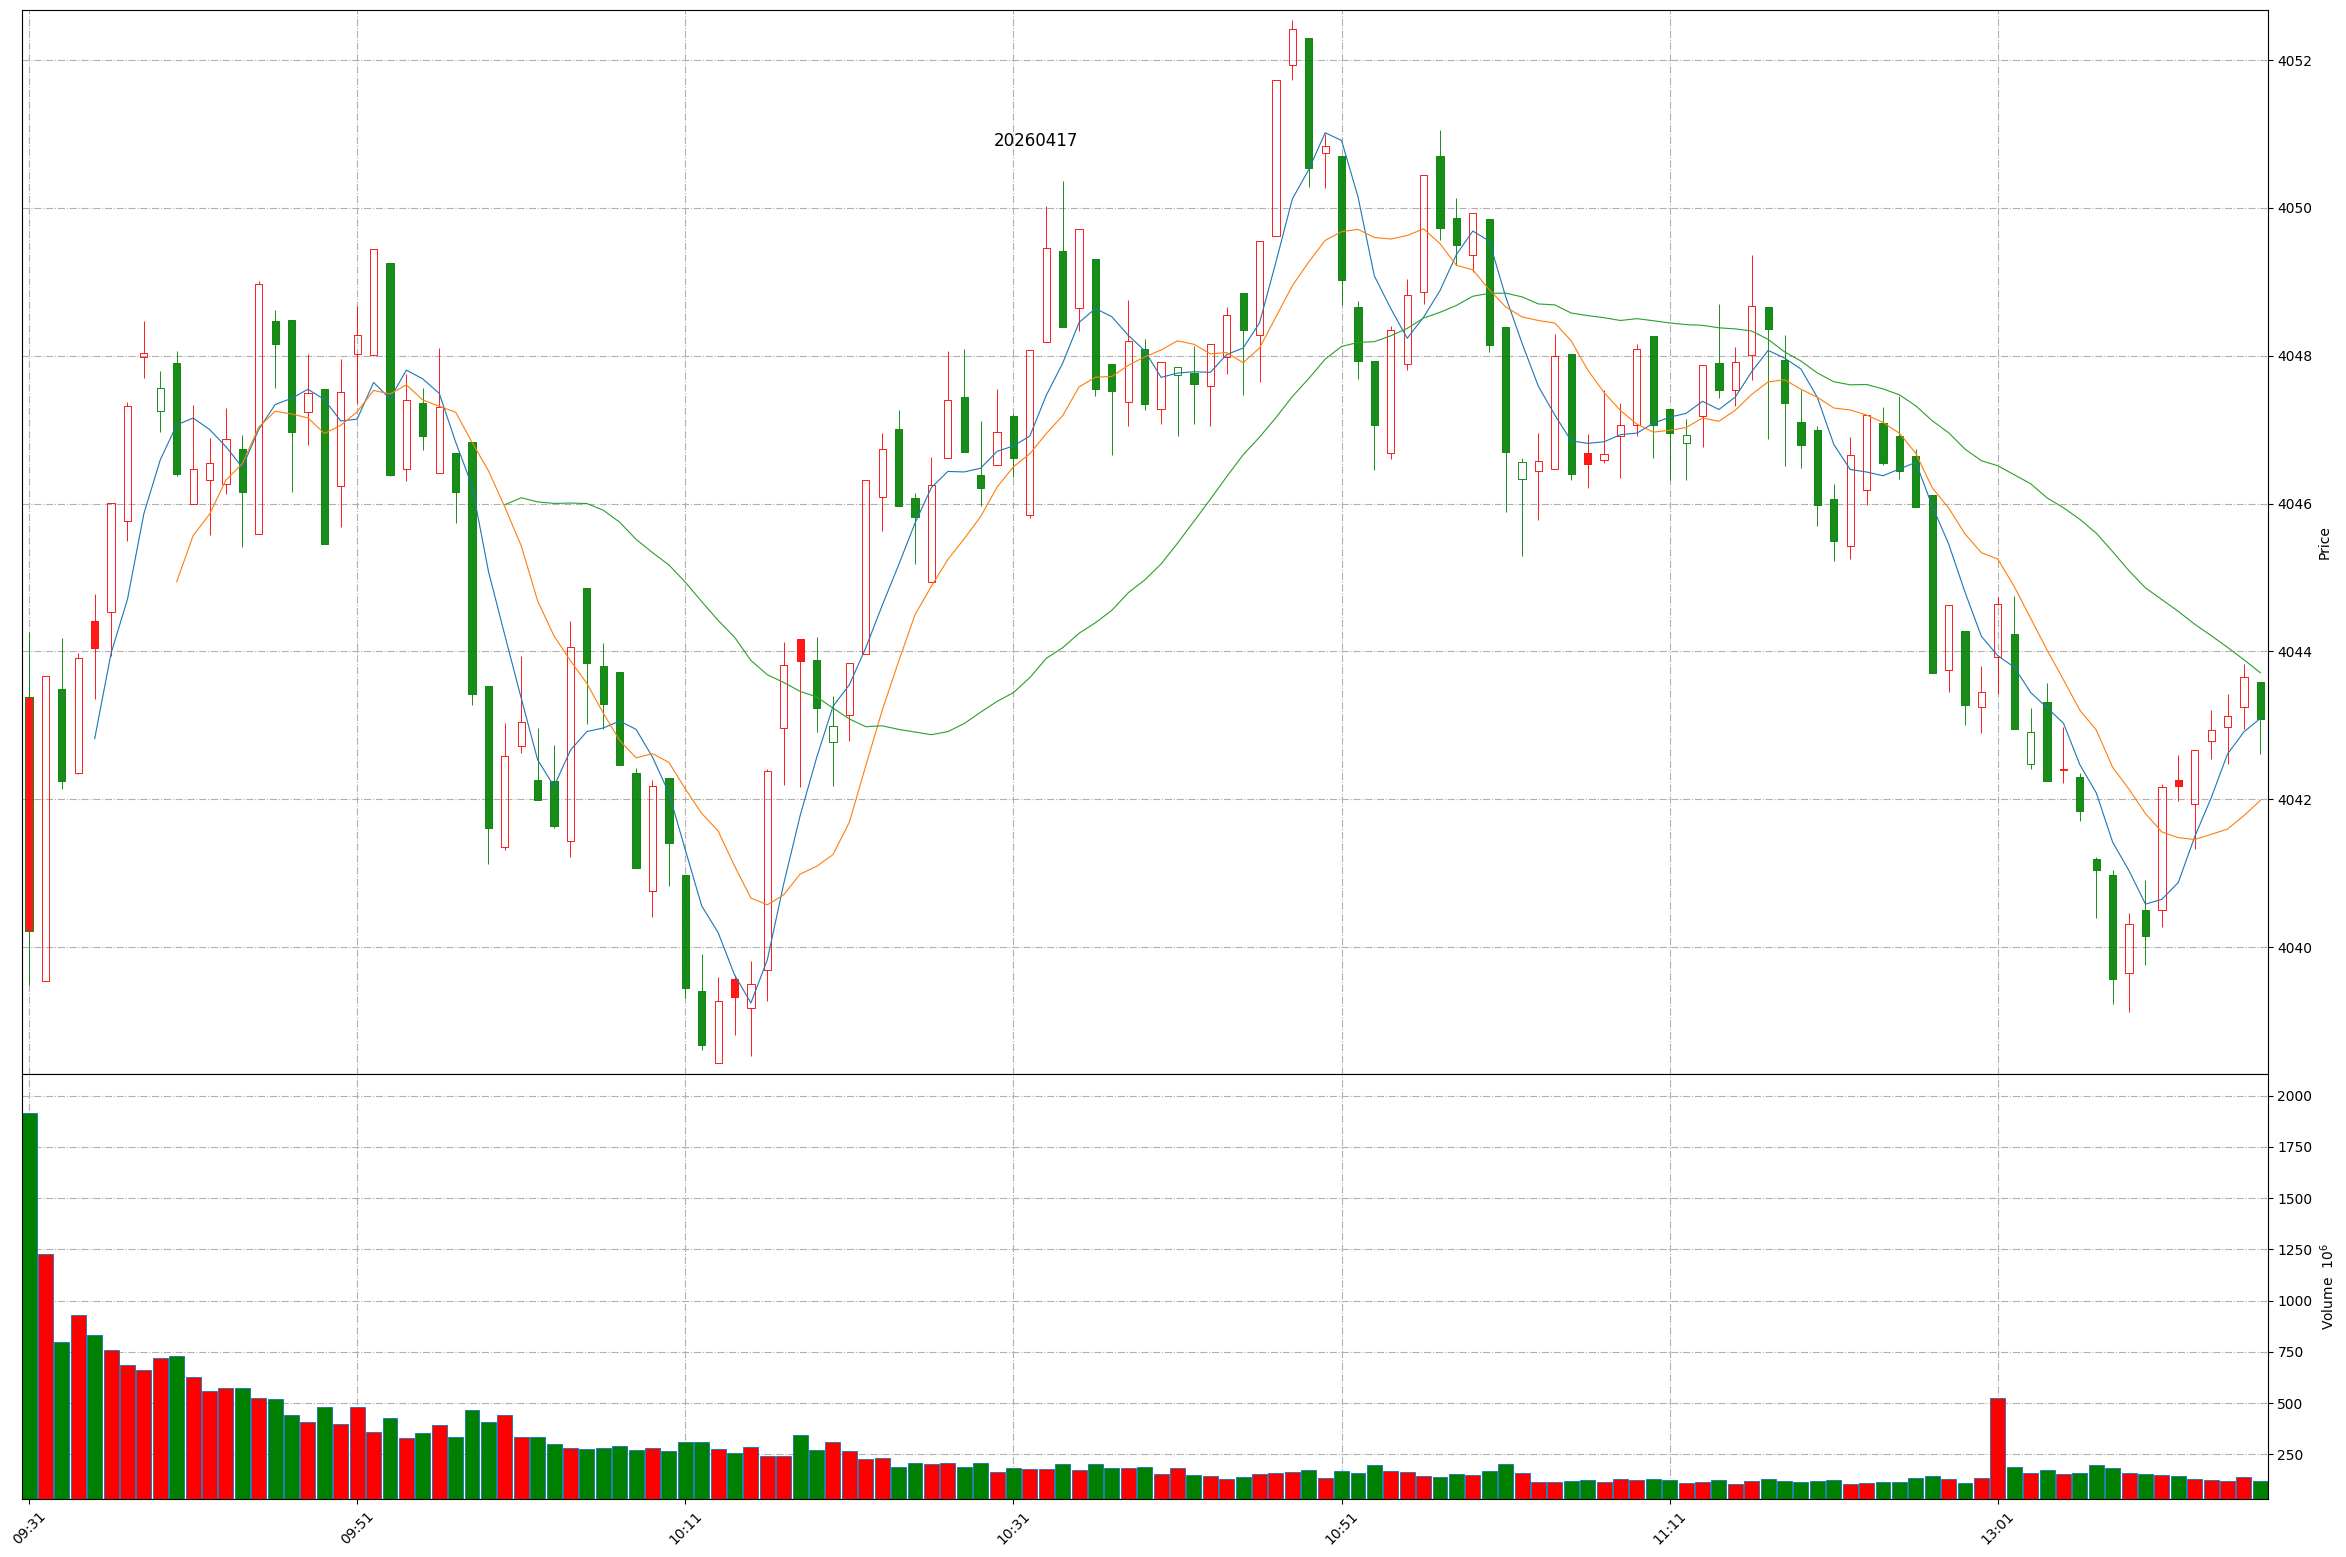
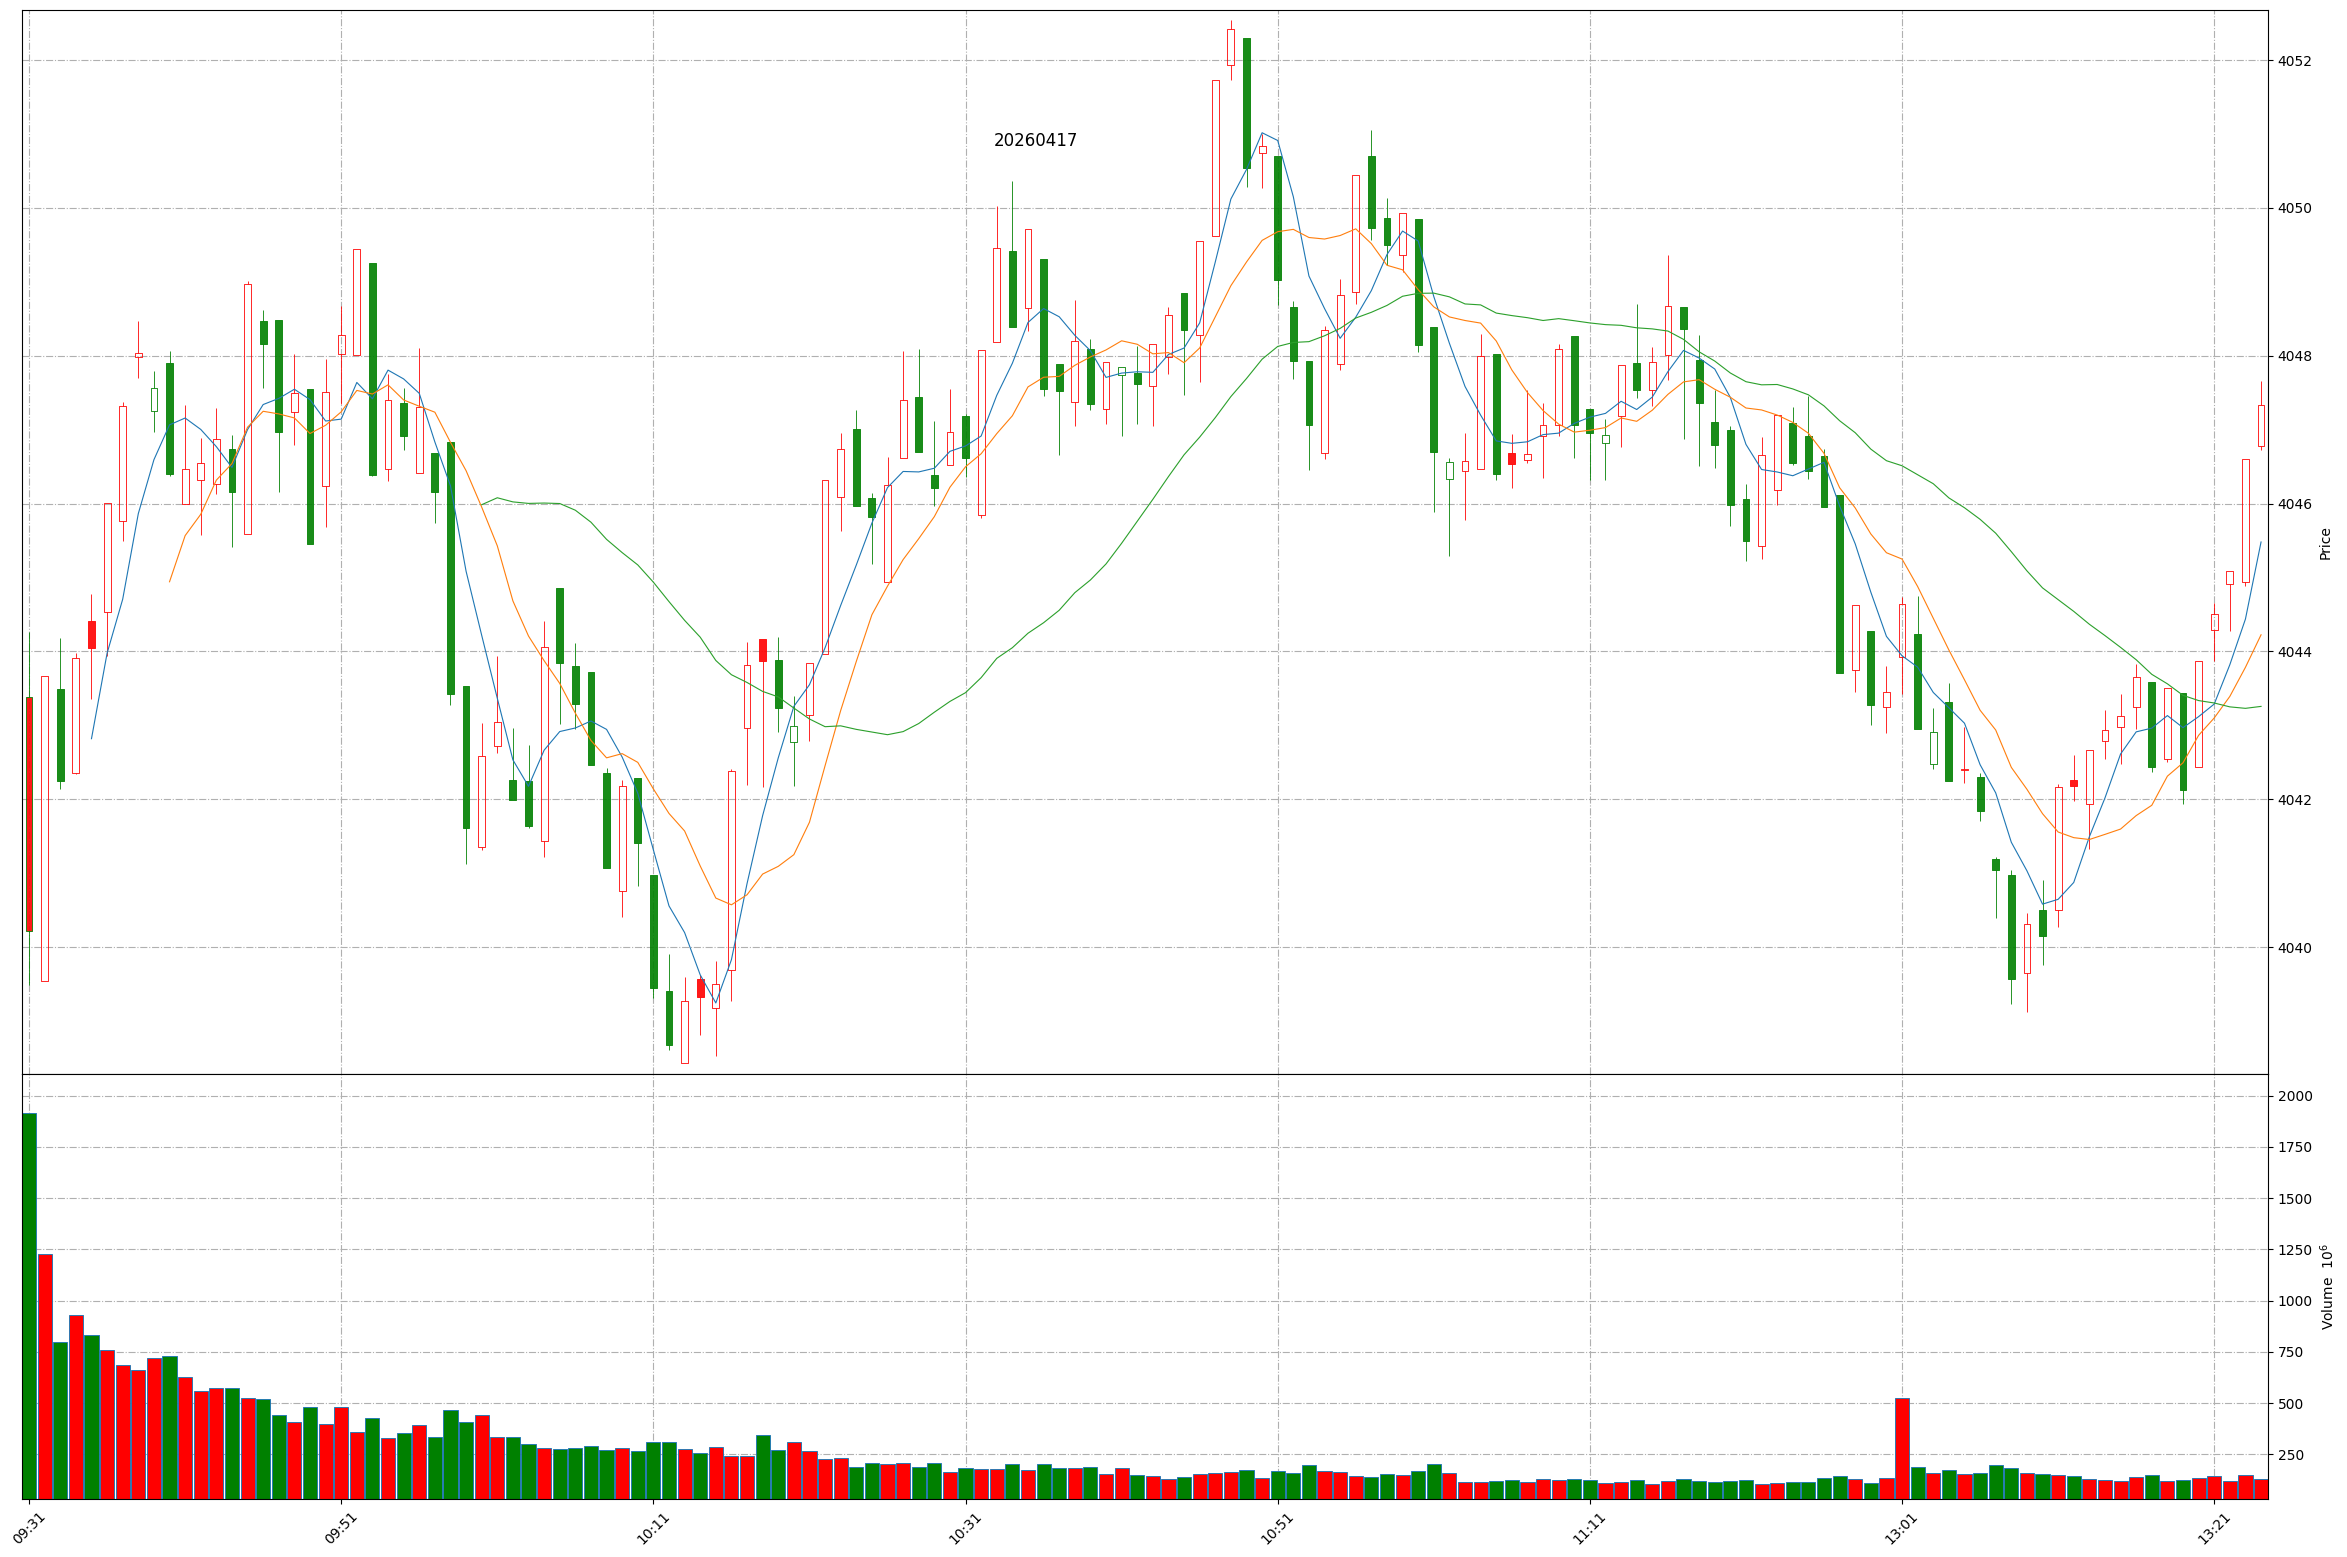
Github action update at 2026-04-17 13:24:23.

Changed region(s): [[0.0, 0.0308, 0.9646, 0.6782], [0.0, 0.8632, 0.9646, 0.9865], [0.9646, 0.8015, 0.9957, 0.8632]]

diff --git a/README.md b/README.md
@@ -1,11 +1,11 @@
 
 # Daily-A-share-market-quotes 每日 A 股指数（5min 更新）- 20260417
 
-### 上证指数 20260417 13:17
+### 上证指数 20260417 13:24
 ![](./fig/2026/4/20260417-sh000001.png)
 
-### 深证成指 20260417 13:17
+### 深证成指 20260417 13:24
 ![](./fig/2026/4/20260417-sz399001.png)
 
-### 北证50 20260417 13:17
+### 北证50 20260417 13:24
 ![](./fig/2026/4/20260417-bj899050.png)
